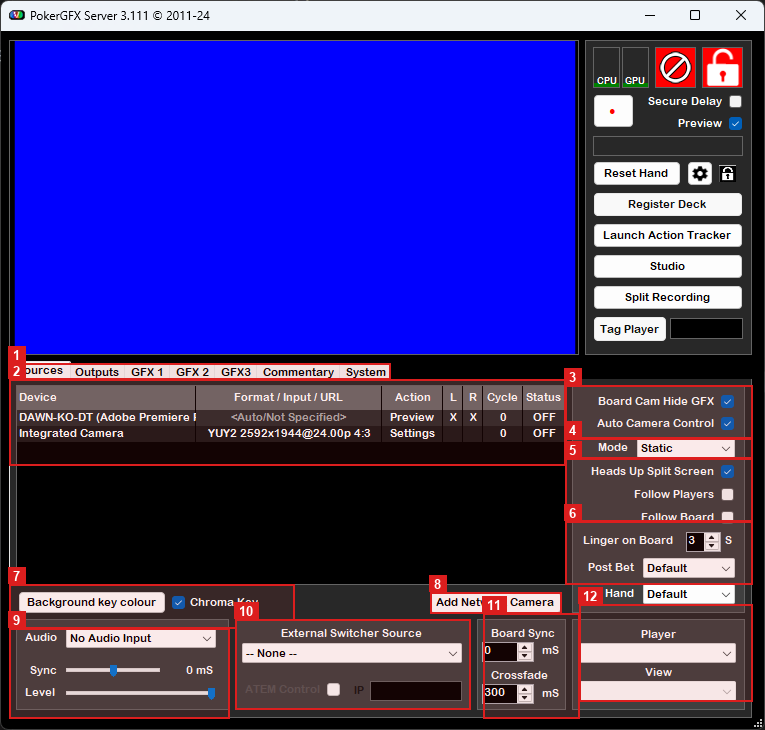
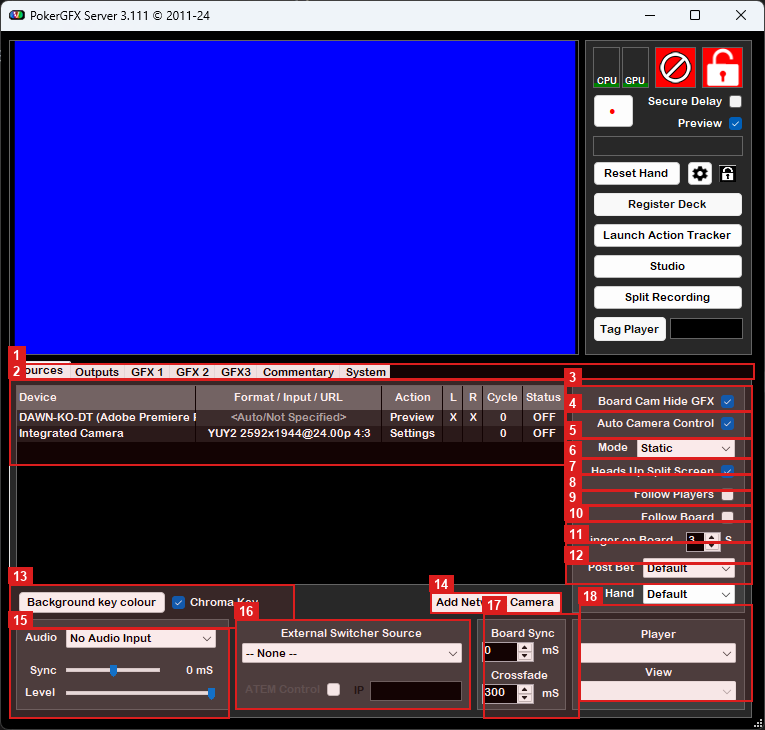
docs(analysis): Sources 탭 오버레이 분석본 재작업 — 12박스→18박스 (v1.0)
- generate_annotations.py: '02-sources-tab' 박스 설계 전면 재작업
  - 탭바 너비 보정: 381→745 (GFX2/GFX3/Commentary/System 탭 포함)
  - Box 3(h=53) → Box 3+4 분리 (Board Cam / Auto Camera 개별화)
  - Box 5(h=63,4요소) → Box 6~9 분리 (Mode/HeadsUp/Follow 개별화)
  - Box 6(h=63,3요소) → Box 10~12 분리 (Linger/PostBet/Hand 개별화)
  - 우측 패널 전체 no_snap: True 적용 (delta 억제)
  - 기능 매핑 주석 추가: SV-001~SV-018, Defer v2.0 표시
- 02-sources-tab-ocr.json: 가비지 OCR 데이터 → 수동 교정본 교체
  - mode: ocr→manual, 18박스 올바른 ocr_text 기재
  - ebs_scope 메타데이터 추가 (v1.0/v2.0 Defer 구분)

diff --git a/tools/generate_annotations.py b/tools/generate_annotations.py
@@ -62,6 +62,10 @@ RED = (220, 30, 30)
 GREEN = (30, 160, 30)
 BLUE = (30, 100, 220)
 
+DROP_OVERLAY_COLOR = (255, 0, 0)   # X선용 순수 빨강
+DROP_ALPHA = 80                     # 31% 불투명도 (기존 22의 약 3.6배)
+DROP_LINE_WIDTH = 3                 # X 선 굵기
+
 
 # ============================================================
 # EDGE DETECTION & AUTO-CALIBRATION
@@ -494,11 +498,22 @@ def draw_boxes(img, boxes, default_color=RED):
         x, y, w, h = box['rect']
         label = str(box['label'])
         c = box.get('color', default_color)
+        is_drop = box.get('is_drop', False)
 
         # Semi-transparent fill
-        draw.rectangle([x + 2, y + 2, x + w - 2, y + h - 2], fill=(*c, 22))
+        fill_alpha = DROP_ALPHA if is_drop else 22
+        draw.rectangle([x + 2, y + 2, x + w - 2, y + h - 2], fill=(*c, fill_alpha))
         # Border
         draw.rectangle([x, y, x + w, y + h], outline=c, width=2)
+
+        # Drop: 대각선 X 마킹 + [DROP] 라벨 접두사
+        if is_drop:
+            pad = 6
+            draw.line([(x + pad, y + pad), (x + w - pad, y + h - pad)],
+                      fill=DROP_OVERLAY_COLOR, width=DROP_LINE_WIDTH)
+            draw.line([(x + w - pad, y + pad), (x + pad, y + h - pad)],
+                      fill=DROP_OVERLAY_COLOR, width=DROP_LINE_WIDTH)
+            label = f'[DROP] {label}'
 
         # Label badge - positioned above the box
         bbox = draw.textbbox((0, 0), label, font=font)
@@ -587,35 +602,55 @@ IMAGES = {
             {'rect': (0,   0,   765, 32),  'label': '1'},   # Title Bar
             {'rect': (10,  38,  572, 316), 'label': '2'},   # Preview
             {'rect': (594, 38,  158, 40),  'label': '3'},   # CPU/GPU/Error/Lock
-            {'rect': (594, 82,  154, 50),  'label': '4'},   # Secure Delay + Preview
+            {'rect': (594, 82,  154, 50),  'label': '4',  'is_drop': True},   # Secure Delay + Preview (EBS MVP 범위 외)
             # (y=136-152 is empty separator space - no box)
             {'rect': (594, 156, 154, 30),  'label': '5'},   # Reset Hand
             {'rect': (594, 190, 154, 28),  'label': '6'},   # Register Deck
             {'rect': (594, 222, 154, 28),  'label': '7'},   # Action Tracker
-            {'rect': (594, 254, 154, 28),  'label': '8'},   # Studio
-            {'rect': (594, 286, 154, 28),  'label': '9'},   # Split Recording
-            {'rect': (594, 318, 154, 34),  'label': '10'},  # Tag Player
+            {'rect': (594, 254, 154, 28),  'label': '8',  'is_drop': True},   # Studio (EBS MVP 범위 외)
+            {'rect': (594, 286, 154, 28),  'label': '9',  'is_drop': True},   # Split Recording (SV-030 Drop 확정)
+            {'rect': (594, 318, 154, 34),  'label': '10', 'is_drop': True},   # Tag Player (EBS MVP 범위 외)
         ],
     },
 
     # --------------------------------------------------------
-    # 2. Sources Tab (765x730) - calibrated 2026-02-10
+    # 2. Sources Tab (765x730) - 재작업 2026-02-24
+    # 오류 수정: 12박스→18박스, 탭바 너비 보정, no_snap 정비
+    # 기능 매핑: SV-001~SV-018 (ebs-console-feature-triage.md)
+    # Defer v2.0: SV-002 Auto Camera, SV-003 ATEM, SV-004 Board Sync
     # --------------------------------------------------------
     '02-sources-tab': {
         'src': '스크린샷 2026-02-05 180637.png',
         'boxes': [
-            {'rect': (9,   363, 381, 16),  'label': '1'},   # Tab Bar
-            {'rect': (9,   379, 556, 86),  'label': '2'},   # Device Table
-            {'rect': (565, 385, 187, 53),  'label': '3', 'no_snap': True},  # Board Cam / Auto Camera
-            {'rect': (565, 438, 187, 20),  'label': '4', 'no_snap': True},  # Camera Mode
-            {'rect': (565, 458, 187, 63),  'label': '5', 'no_snap': True},  # Heads Up / Follow
-            {'rect': (565, 521, 187, 63),  'label': '6', 'no_snap': True},  # Linger / Post
-            {'rect': (9,   584, 285, 44),  'label': '7'},   # Chroma Key
-            {'rect': (431, 592, 129, 21),  'label': '8'},   # Add Network Camera
-            {'rect': (9,   619, 220, 100), 'label': '9'},   # Audio / Sync / Level
-            {'rect': (235, 619, 235, 90),  'label': '10'},  # External Switcher / ATEM
-            {'rect': (477, 619, 88,  90),  'label': '11'},  # Board Sync / Crossfade
-            {'rect': (572, 619, 172, 90),  'label': '12'},  # Player View
+            # Tab Bar (full width fix: 381→745, Sources|Outputs|GFX1|GFX2|GFX3|Commentary|System)
+            {'rect': (9,   363, 745, 16), 'label': '1',  'no_snap': True},  # [S-00] Tab Bar
+
+            # Device Table [S-01]
+            {'rect': (9,   379, 556, 86), 'label': '2'},                    # [S-01] Device Table (header + 2 rows)
+
+            # Right Panel - Camera Controls (x=565, w=187)
+            {'rect': (565, 385, 187, 26), 'label': '3',  'no_snap': True},  # [S-05] Board Cam Hide GFX ☑
+            {'rect': (565, 411, 187, 27), 'label': '4',  'no_snap': True},  # [S-06] Auto Camera Control ☑ [Defer v2.0]
+            {'rect': (565, 438, 187, 20), 'label': '5',  'no_snap': True},  # Camera Mode section label
+            {'rect': (565, 458, 187, 16), 'label': '6',  'no_snap': True},  # [S-07] Mode: Static ▼
+            {'rect': (565, 474, 187, 16), 'label': '7',  'no_snap': True},  # [S-08] Heads Up Split Screen ☑
+            {'rect': (565, 490, 187, 15), 'label': '8',  'no_snap': True},  # [S-09] Follow Players ☐
+            {'rect': (565, 505, 187, 16), 'label': '9',  'no_snap': True},  # [S-10] Follow Board ☐
+
+            # Right Panel - Linger / Post Bet / Hand
+            {'rect': (565, 521, 187, 21), 'label': '10', 'no_snap': True},  # Linger on Board [3]↑↓ S
+            {'rect': (565, 542, 187, 21), 'label': '11', 'no_snap': True},  # Post Bet [Default] ▼
+            {'rect': (565, 563, 187, 21), 'label': '12', 'no_snap': True},  # Hand [Default] ▼
+
+            # Bottom Row 1 - Chroma Key / Add Camera
+            {'rect': (9,   584, 285, 44), 'label': '13'},                   # [S-11/S-12] Background key colour + Chroma Key ☑
+            {'rect': (431, 592, 129, 21), 'label': '14'},                   # [S-02] Add Network Camera btn
+
+            # Bottom Row 2 - Audio / Switcher / Sync / Player View
+            {'rect': (9,   619, 220, 100), 'label': '15'},                  # [S-17/S-18] Audio Input + Sync + Level
+            {'rect': (235, 619, 235, 90),  'label': '16'},                  # [S-13/S-14] External Switcher + ATEM [Defer v2.0]
+            {'rect': (477, 619, 88,  90),  'label': '17'},                  # [S-15/S-16] Board Sync + Crossfade [Defer v2.0]
+            {'rect': (572, 619, 172, 90),  'label': '18'},                  # Player ▼ + View ▼
         ],
     },
 
